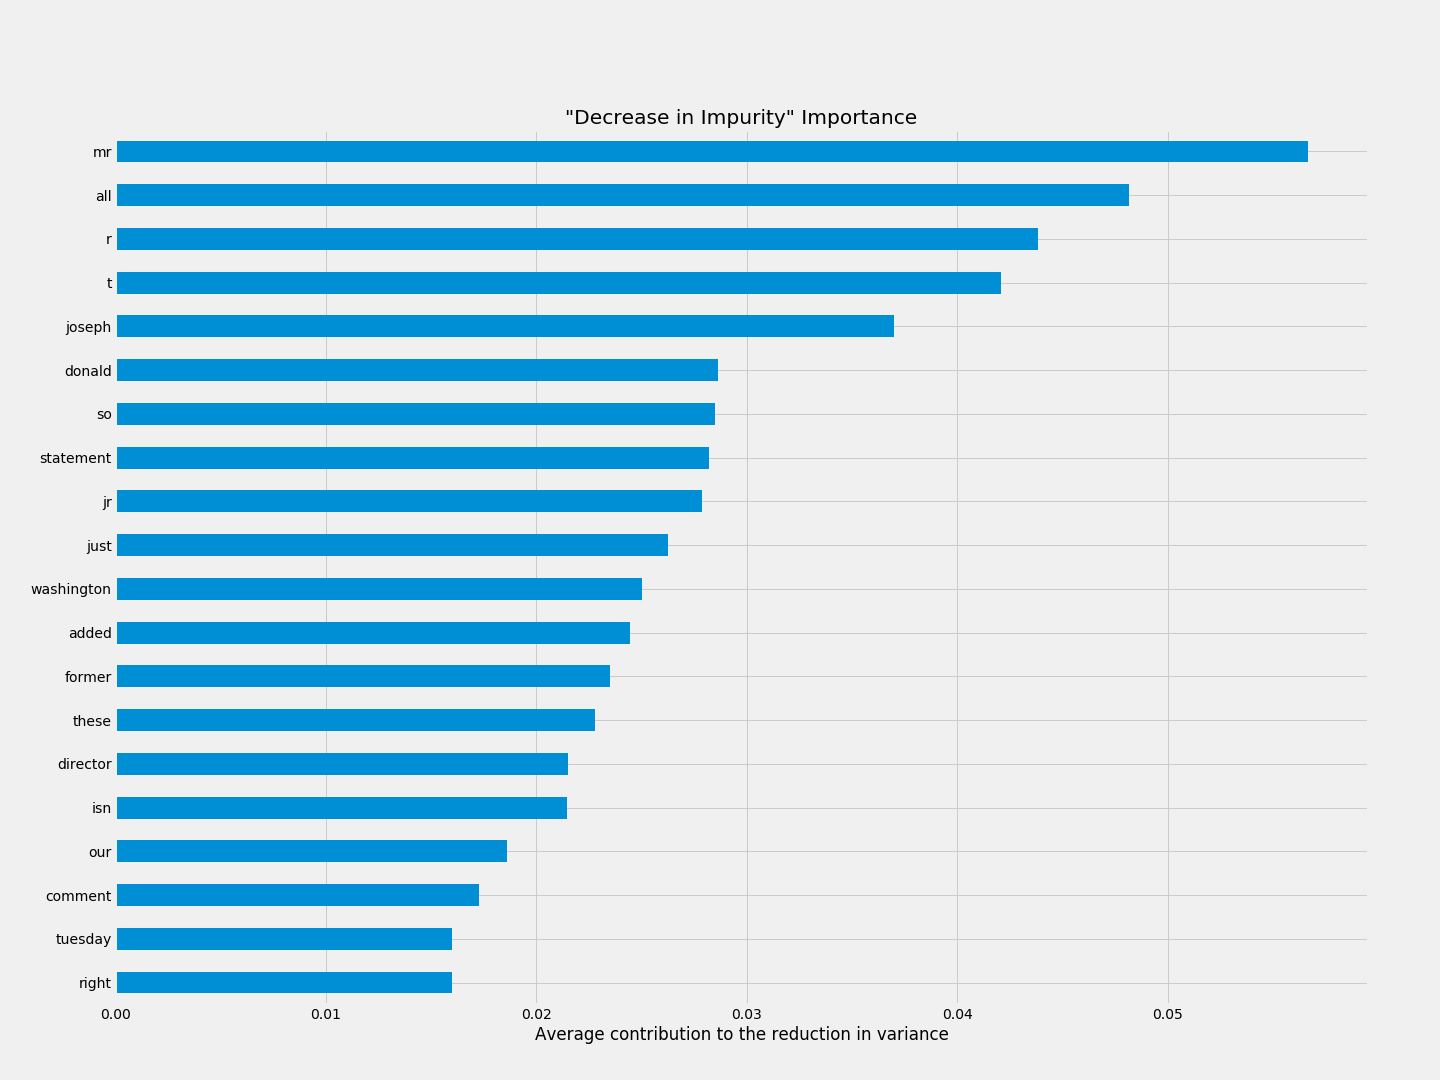
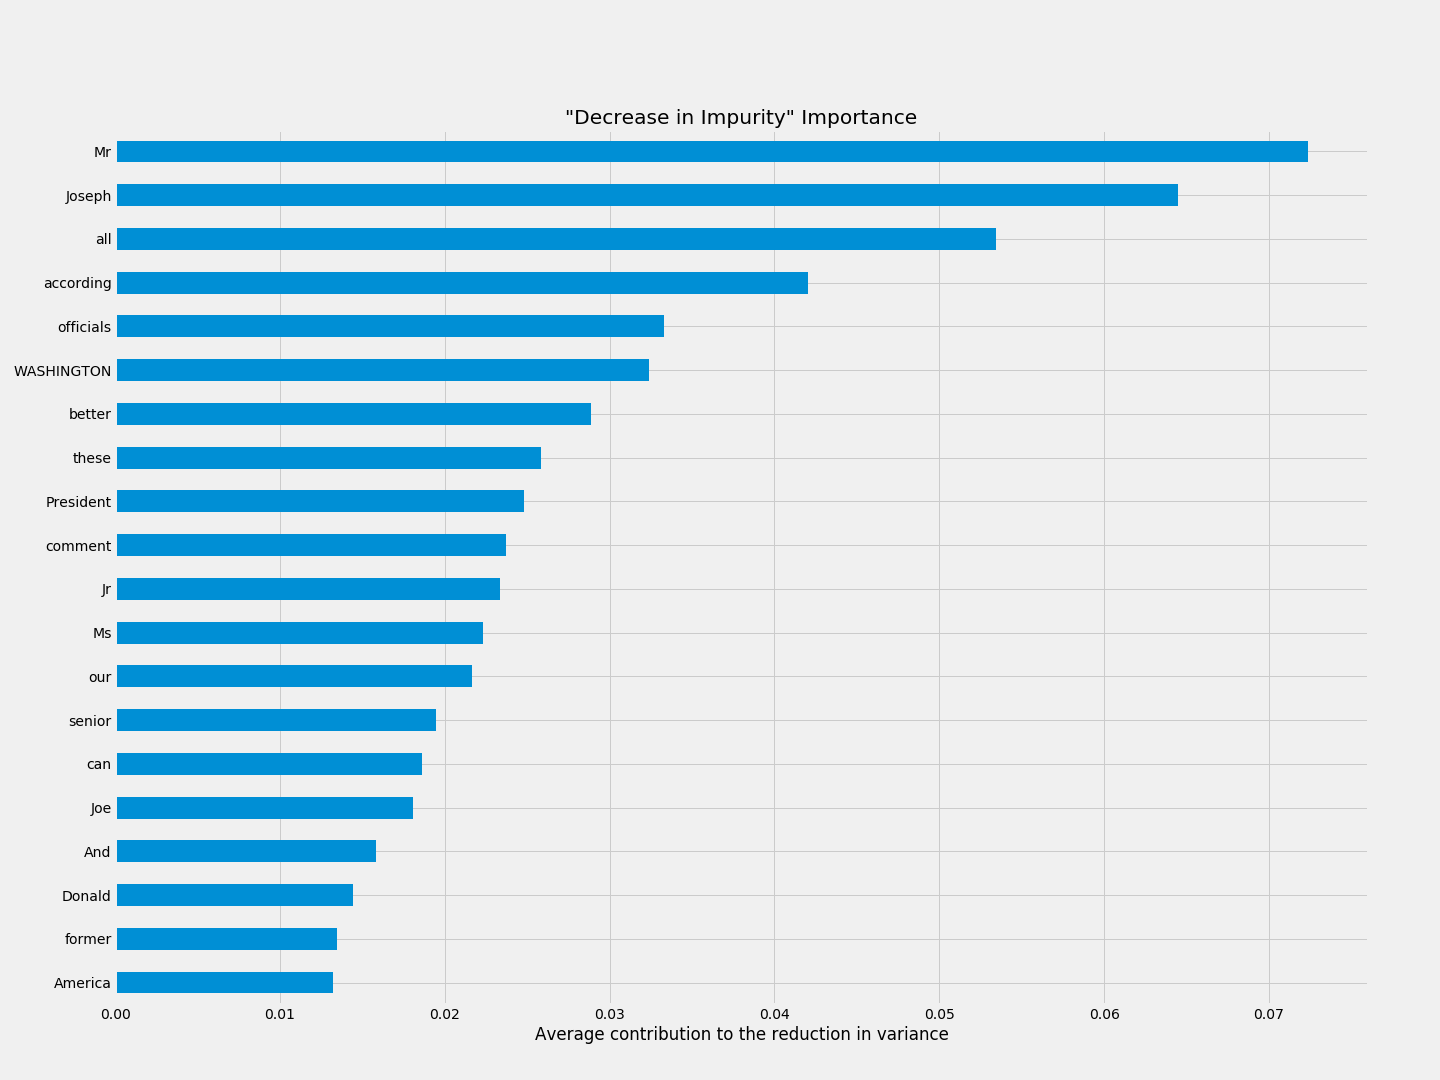
2020 base

diff --git a/Notes.md b/Notes.md
@@ -16,17 +16,17 @@
 
 ---
 ## The Model:
-stop_words = ['a','b','c','d', 'e', 'f', 'g', 'h', 'i', 'j', 'k', 'l', 'm', 'n', 'o', 'p', 'q', 'r', 's', 't', 'u', 'v', 'w', 'x', 'y', 'z', 'mr','ms', 'said']
+stop_words = ['said']
 
 
 ## Model Performance: 
 
 ![Confusion Matrix](img/confusion_matrix.png)
 
-accuracy = 0.8272626931567328
-recall = 0.8388671875
-precision = 0.2686053783614759
-tn:11133 fp:2339 fn:165 tp:859
+accuracy = 0.9162162162162162
+recall = 0.9036458333333334
+precision = 0.6995967741935484
+tn:1687 fp:149 fn:37 tp:347
 
 ## Analysis:
 
